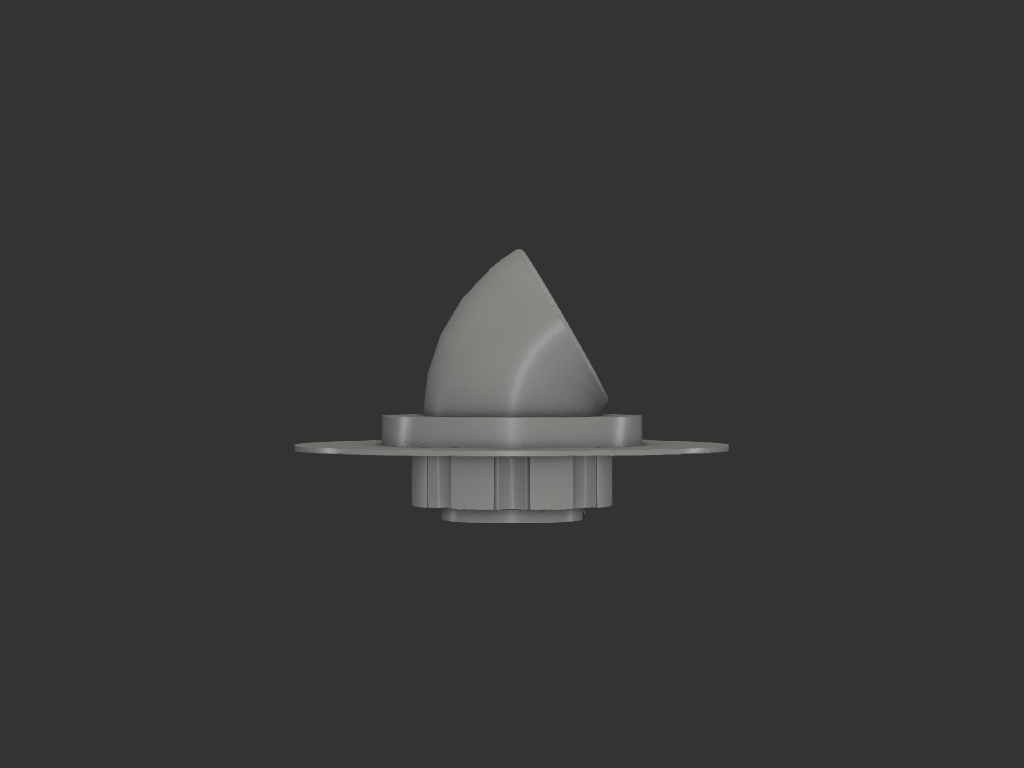
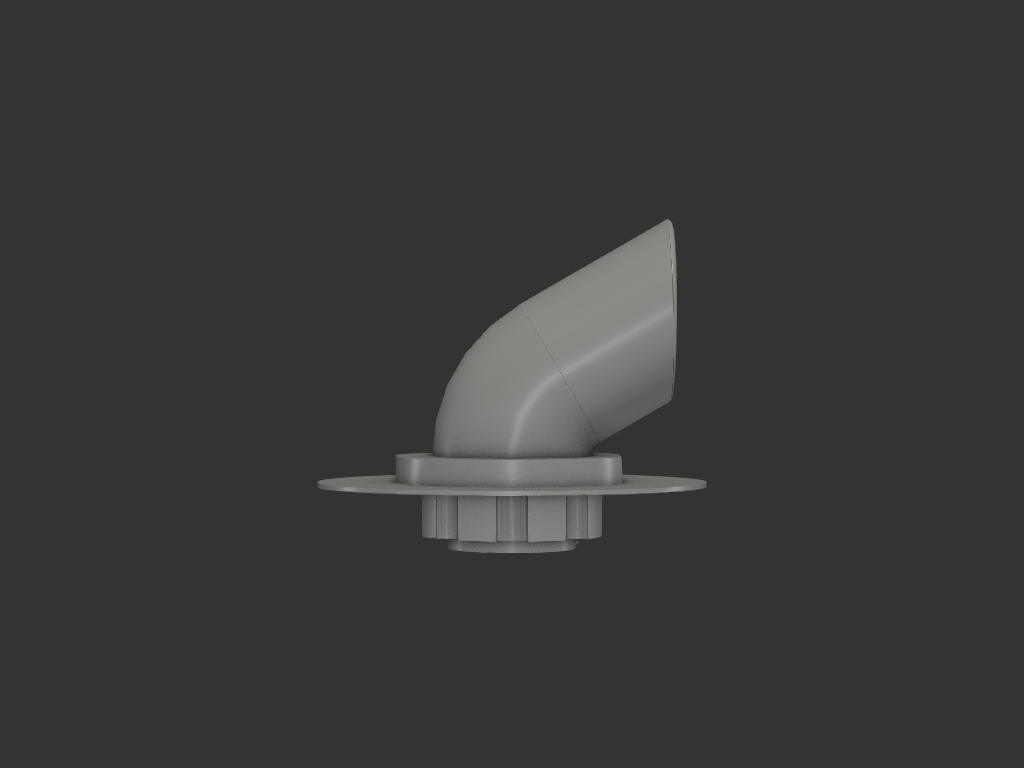
주방/식기세척기관_싱크대커버: 괜찮은 것 같아. 출력하고 써볼테니 일단 정리하자

Changed region(s): [[0.2812, 0.2812, 0.7188, 0.7188]]

diff --git a/models/주방/식기세척기관_싱크대커버/README.md b/models/주방/식기세척기관_싱크대커버/README.md
@@ -106,7 +106,10 @@
 | 엘보 | R 22, 60°, 보어 ⌀33, 벽 2 | |
 | 출구 나팔 | R 2.5 | 꺾이는 지점의 날카로운 모서리를 없앤다 |
 | 너트 | ⌀42 × **11**, 홈 8 개 | 피치가 굵어져 2.4 바퀴를 물려면 이만큼 필요 |
-| 상판 위 높이 | **38.8** | |
+| 직선 목 | 엘보 끝에서 접선 방향 **30** (중심선) | 물이 튀어 들어가서 입구를 더 내밀었다 |
+| 출구 면 | **지면에 수직** (관축에 수직 아님) | 사용 피드백 |
+| 플랜지 출구쪽 | +x 가장자리를 **x=25 에서 평면 절단** | 싱크대 끝과 간섭. 오링 홈 바깥 벽 1.8 |
+| 상판 위 높이 | **약 76** (엘보만이면 38.8) | |
 
 오링 홈 안쪽 가장자리가 ⌀38.0 이라 구멍(31.5) 바깥 **단단한 상판 위에** 온전히
 앉는다. 홈 안쪽 벽 2.00mm, 바깥 테두리 3.80mm.
@@ -341,6 +344,10 @@ x≈6mm 이고 접지 폭이 30mm 라 쓰러지지는 않는다. 나사 아래 1
   고르면 엉뚱한 걸 잡는다 — 면의 **법선**으로 골랐다
 
 ## 상태
+
+- **iter_013 — 사용 피드백 반영, 출력 대기.** ① 출구에 직선 목 30mm 추가
+  (물이 튀어 들어감) ② 출구 쪽 플랜지 가장자리를 x=25 에서 평면 절단
+  (싱크대 끝 간섭) ③ 출구 면을 관축 수직 → 지면 수직으로 변경
 
 - **iter_012 — 완료.** 출력·설치·사용 확인. 나사가 물리고 조여진다.
   여유 0.15 → 0.35, 옆면 25° → **45°**, 피치 2.5 → 4.5, 파일럿 턱 제거
